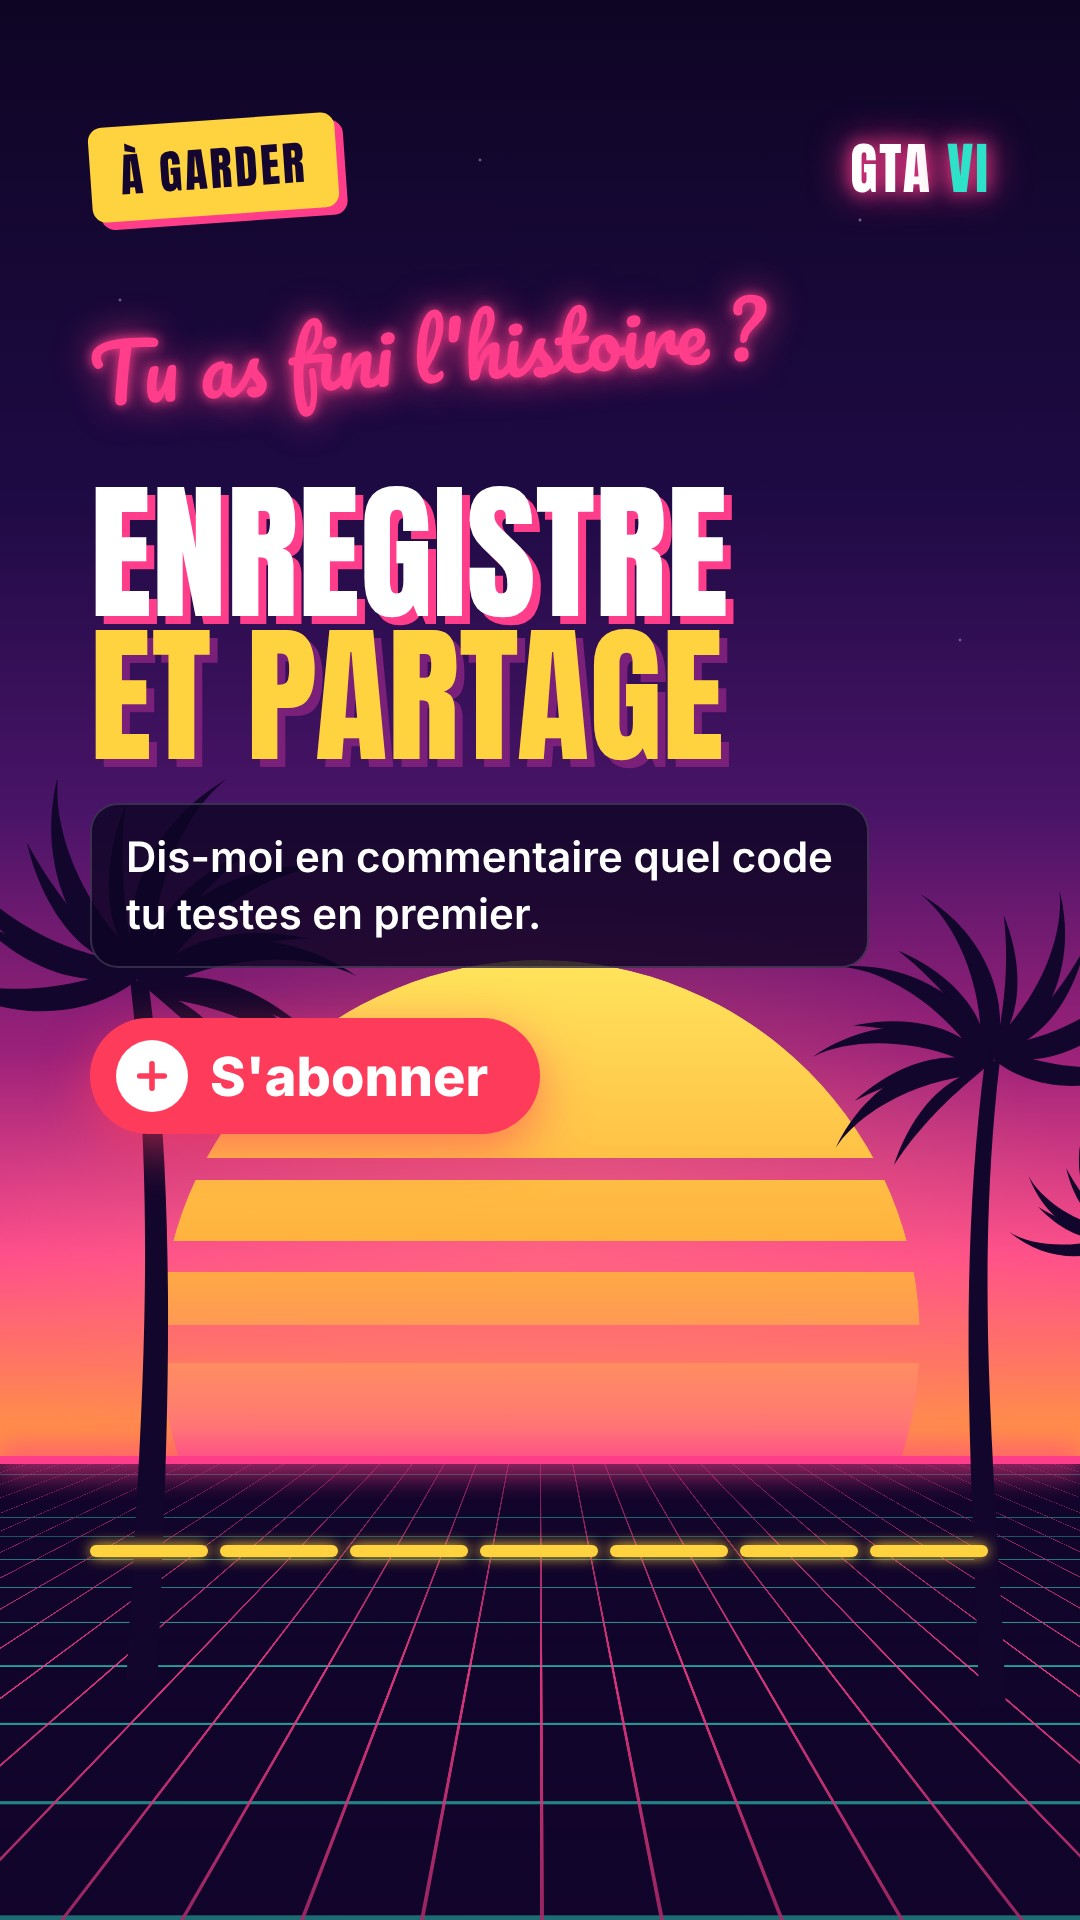
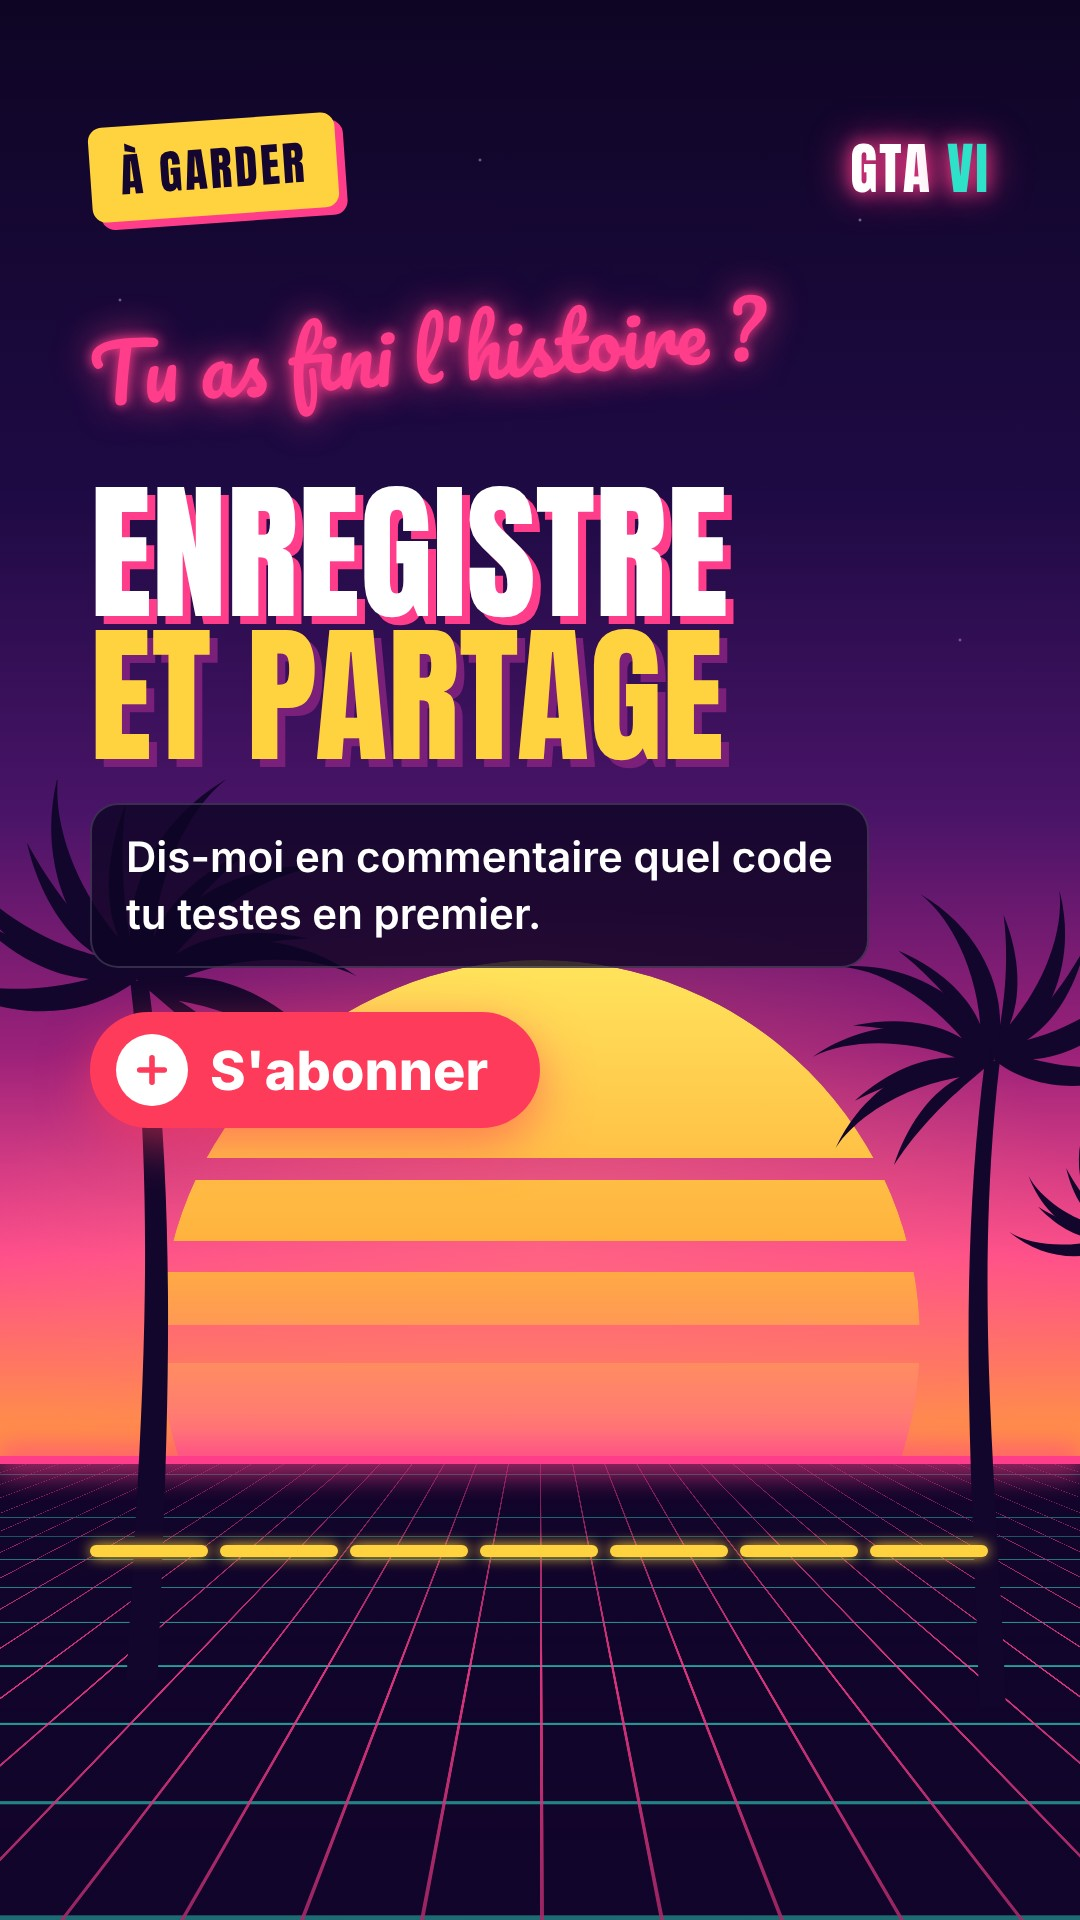
Méthode virale : relance en cours de carrousel, appel au partage, mélange des posts
Claude-Session: https://claude.ai/code/session_01MN5qWVk9e4Jfowbn4WdGDr

Changed region(s): [[0.0917, 0.5, 0.4889, 0.5938]]

diff --git a/outils/neon.py b/outils/neon.py
@@ -68,6 +68,8 @@ b,strong{{color:{TEAL};font-weight:800}}
 .k svg{{width:62%;height:62%}}
 .codes{{display:flex;flex-wrap:wrap;align-items:center;margin-top:10px}}
 .big .k{{width:92px;height:92px;border-radius:18px;margin:6px}}
+.teaser{{position:absolute;z-index:6;left:90px;right:90px;top:1440px;display:flex;justify-content:flex-end}}
+.teaser span{{display:inline-flex;align-items:center;gap:12px;background:{PINK};color:#fff;font-family:Anton;font-size:40px;letter-spacing:1px;padding:12px 26px 10px;border-radius:999px;box-shadow:0 0 30px rgba(255,61,139,.6)}}
 .dots{{position:absolute;z-index:6;left:90px;top:1545px;display:flex;gap:12px}}
 .dot{{height:12px;border-radius:6px;background:rgba(255,255,255,.22)}}
 .dot.on{{background:{YEL};box-shadow:0 0 14px {YEL}}}
@@ -153,6 +155,15 @@ def visual_html(v, base):
         return f'<div style="margin:60px auto 0;width:320px;height:320px;border-radius:50%;background:rgba(14,5,36,.7);border:4px solid {TEAL};display:flex;align-items:center;justify-content:center;box-shadow:0 0 60px rgba(45,226,200,.5)">{svg(v.get("name","star"),200,"#fff")}</div>'
     return ""
 
+SHARE_ICON = ('<svg aria-hidden="true" width="46" height="46" viewBox="0 0 24 24" fill="none" stroke="#14062E" stroke-width="2.4" '
+              'stroke-linecap="round" stroke-linejoin="round"><path d="M22 2 11 13"/><path d="M22 2 15 22l-4-9-9-4z"/></svg>')
+
+def share_html(s):
+    if not s.get("share"):
+        return ""
+    return (f'<div style="margin-top:30px;align-self:flex-start;display:flex;align-items:center;gap:18px;background:{YEL};color:#14062E;'
+            f'font-weight:800;font-size:38px;line-height:1.25;border-radius:24px;padding:20px 30px;box-shadow:6px 6px 0 {PINK}">{SHARE_ICON}<span>{s["share"]}</span></div>')
+
 def body(s, base):
     t = s.get("type", "steps")
     if t == "hook":
@@ -170,7 +181,7 @@ def body(s, base):
 <div class="pac" style="margin-top:90px;font-size:78px">{s.get("pac","Ça t'a aidé ?")}</div>
 <div style="margin-top:40px;font-family:Anton;font-size:150px;line-height:.95;text-transform:uppercase;text-shadow:8px 8px 0 {PINK}">Enregistre<br><span class="y" style="text-shadow:8px 8px 0 #7A1F7A">et partage</span></div>
 <div style="margin-top:36px;align-self:flex-start;font-size:42px;line-height:1.35;font-weight:600;background:rgba(14,5,36,.82);border:2px solid rgba(255,255,255,.16);border-radius:28px;padding:24px 34px">{s.get("comment","Dis-moi en commentaire quel secret<br>tu veux voir ensuite.")}</div>
-<div style="margin-top:50px;display:flex"><span style="display:flex;align-items:center;gap:22px;background:#FF3B5C;color:#fff;font-weight:800;font-size:54px;padding:22px 52px 22px 26px;border-radius:999px;box-shadow:0 16px 50px rgba(255,59,92,.55)"><span style="width:72px;height:72px;border-radius:50%;background:#fff;display:flex;align-items:center;justify-content:center"><svg aria-hidden="true" width="42" height="42" viewBox="0 0 24 24" fill="none" stroke="#FF3B5C" stroke-width="3.2" stroke-linecap="round"><path d="M12 5v14M5 12h14"/></svg></span>S'abonner</span></div>"""
+{share_html(s)}<div style="margin-top:44px;display:flex"><span style="display:flex;align-items:center;gap:22px;background:#FF3B5C;color:#fff;font-weight:800;font-size:54px;padding:22px 52px 22px 26px;border-radius:999px;box-shadow:0 16px 50px rgba(255,59,92,.55)"><span style="width:72px;height:72px;border-radius:50%;background:#fff;display:flex;align-items:center;justify-content:center"><svg aria-hidden="true" width="42" height="42" viewBox="0 0 24 24" fill="none" stroke="#FF3B5C" stroke-width="3.2" stroke-linecap="round"><path d="M12 5v14M5 12h14"/></svg></span>S'abonner</span></div>"""
     out = header(s)
     if s.get("intro"):
         out += f'<p class="body" style="margin:26px 0 0">{s["intro"]}</p>'
@@ -223,21 +234,26 @@ def dots(n, total):
     return '<div class="dots" aria-hidden="true">' + "".join(
         f'<div class="dot{" on" if i < n else ""}" style="width:{w}px"></div>' for i in range(total)) + '</div>'
 
+TEASER_ARROW = ('<svg aria-hidden="true" width="40" height="40" viewBox="0 0 24 24" fill="none" stroke="#fff" stroke-width="3" '
+                'stroke-linecap="round" stroke-linejoin="round"><path d="M4 12h15"/><path d="M13 6l6 6-6 6"/></svg>')
+
 def page(s, n, total, base):
+    teaser = f'<div class="teaser"><span>{s["teaser"]}{TEASER_ARROW}</span></div>' if s.get("teaser") else ""
     return (f'<!doctype html><html lang="fr"><head><meta charset="utf-8"><title>Slide {n}</title><style>{CSS}</style></head>'
-            f'<body><div class="slide">{SCENE}<div class="content">{keycaps(body(s, base))}</div>{dots(n, total)}</div></body></html>')
+            f'<body><div class="slide">{SCENE}<div class="content">{keycaps(body(s, base))}</div>{teaser}{dots(n, total)}</div></body></html>')
 
 FIT_JS = """() => {
   const out = {shrunk:0};
   document.querySelectorAll('h2.fit').forEach(h => { let f = parseFloat(getComputedStyle(h).fontSize);
     while ((h.scrollWidth > 900) && f > 60) { f -= 2; h.style.fontSize = f + 'px'; } });
   const bottom = () => { let m = 0; document.querySelectorAll('.content *').forEach(e => { const r = e.getBoundingClientRect(); if (r.bottom > m) m = r.bottom; }); return m; };
+  const limit = document.querySelector('.teaser') ? 1420 : %d;
   let guard = 0;
-  while (bottom() > %d && guard < 14) {
+  while (bottom() > limit && guard < 14) {
     document.querySelectorAll('.st,.body,.warn,.rl div,.rl small').forEach(e => { const f = parseFloat(getComputedStyle(e).fontSize); e.style.fontSize = Math.max(26, f - 2) + 'px'; });
     document.querySelectorAll('.card').forEach(e => { e.style.gap = '20px'; e.style.padding = '30px 36px'; });
     guard++; out.shrunk = guard; }
-  out.bottom = Math.round(bottom());
+  out.bottom = Math.round(bottom()); out.limit = limit;
   let right = 0; document.querySelectorAll('.content *').forEach(e => { const r = e.getBoundingClientRect(); if (r.right > right) right = r.right; });
   out.right = Math.round(right);
   return out; }""" % SAFE_BOTTOM
@@ -266,7 +282,7 @@ def render(spec_path):
             f.write_text(page(s, i, total, base))
             pg.goto(f.as_uri()); pg.evaluate("document.fonts.ready"); pg.wait_for_timeout(400)
             r = pg.evaluate(FIT_JS); pg.wait_for_timeout(100)
-            if r["bottom"] > SAFE_BOTTOM or r["right"] > 1000:
+            if r["bottom"] > r["limit"] or r["right"] > 1000:
                 problems.append((i, r))
             png = tmp / f"s{i}.png"
             pg.screenshot(path=str(png))

diff --git a/outils/STYLE.md b/outils/STYLE.md
@@ -64,3 +64,35 @@ Romain veut que **chaque** titre et **chaque** description soient optimisés pou
 **Slides**
 - La slide 1 affiche le mot-clé exact en gros (« CODES DE TRICHE GTA 6 », « ARGENT FACILE »), car TikTok lit aussi le texte des images.
 - Recherches qui amènent déjà des vues au compte (TikTok Studio, 24/11) : « braquage gta 6 », « phamas chap 2 gta », « bf bandito gta6 ». Les privilégier comme sujets et mots-clés.
+
+## Méthode virale (à appliquer à chaque post)
+
+Ce qui compte pour TikTok en 2026, dans l'ordre : temps passé et taux de complétion (pour un carrousel, le % qui swipe après la slide 1, puis le % qui va jusqu'au bout), puis **partages en message privé** et **enregistrements**, puis commentaires, puis j'aime. La vitesse des réactions dans la première heure décide si le post est poussé plus loin.
+
+**Slide 1 = 80 % du résultat**
+- Nommer le sujet tout de suite (mot-clé en gros) ET ouvrir une question sans y répondre.
+- Un chiffre précis plutôt que rond (« 2 140 $ », « 61 codes », « 7 secondes »).
+- Formules qui marchent : « Personne n'y pense : … », « Rockstar a caché … », « Ne fais pas … avant d'avoir vu ça », « Le secret à +2 000 $ que 95 % des joueurs ratent », « J'ai trouvé … à Key Lento », « Si tu as raté ça, recommence ta partie ».
+- La pastille blanche annonce la récompense et sa slide (« LE CODE ARGENT EN SLIDE 4 »).
+
+**Slides 2 et suivantes**
+- La slide 2 relance (petit suspense ou première info choc), pas une intro molle.
+- Au milieu, une relance avec le champ `teaser` (« Le meilleur arrive en slide 5 »).
+- Une idée par slide, 3 ou 4 lignes maximum, mots clés en `<b>`. 5 à 8 slides au total.
+
+**Slide finale**
+- `share` : une phrase qui pousse à envoyer le post à quelqu'un de précis (« Envoie-le à ton pote qui est encore à Key Lento »). C'est le signal le plus fort.
+- `comment` : une question facile ou qui divise (« Jason ou Lucia ? », « Tu l'avais trouvé ? Réponds oui ou non »), car les posts photo reçoivent beaucoup de commentaires.
+
+**Description**
+- La première ligne est visible avant « plus » : elle doit accrocher ET contenir le mot-clé dans les 50 premiers caractères.
+
+**Mélange des 3 posts du jour**
+- 1 post « utile à garder » (argent, braquage, codes, emplacements) : vise les enregistrements.
+- 1 post « découverte à partager » (secret, easter egg, détail fou du jeu, voiture rare) : vise les partages.
+- 1 post « réaction » (mème, situation que tous les joueurs vivent, Jason et Lucia, classement ou « top 5 ») : vise les commentaires. Ça reste en carrousel néon, avec la même charte.
+- Séries numérotées quand un sujet marche (« Braquage n°2 », « Secret n°3 ») : ça fait visiter le profil.
+
+**Inspiration**
+- Les plus gros comptes GTA 6 postent des découvertes à la première personne (« J'ai volé la voiture de Paul Walker dans GTA 6 », « J'ai trouvé un ours polaire ») et des « pro tips » très courts. Reprendre ce ton dans les accroches, en français.
+- Suivre ce qui buzze sur GTA 6 (presse jeu vidéo, YouTube, X, TikTok) et réagir dans les 24 à 48 h.
